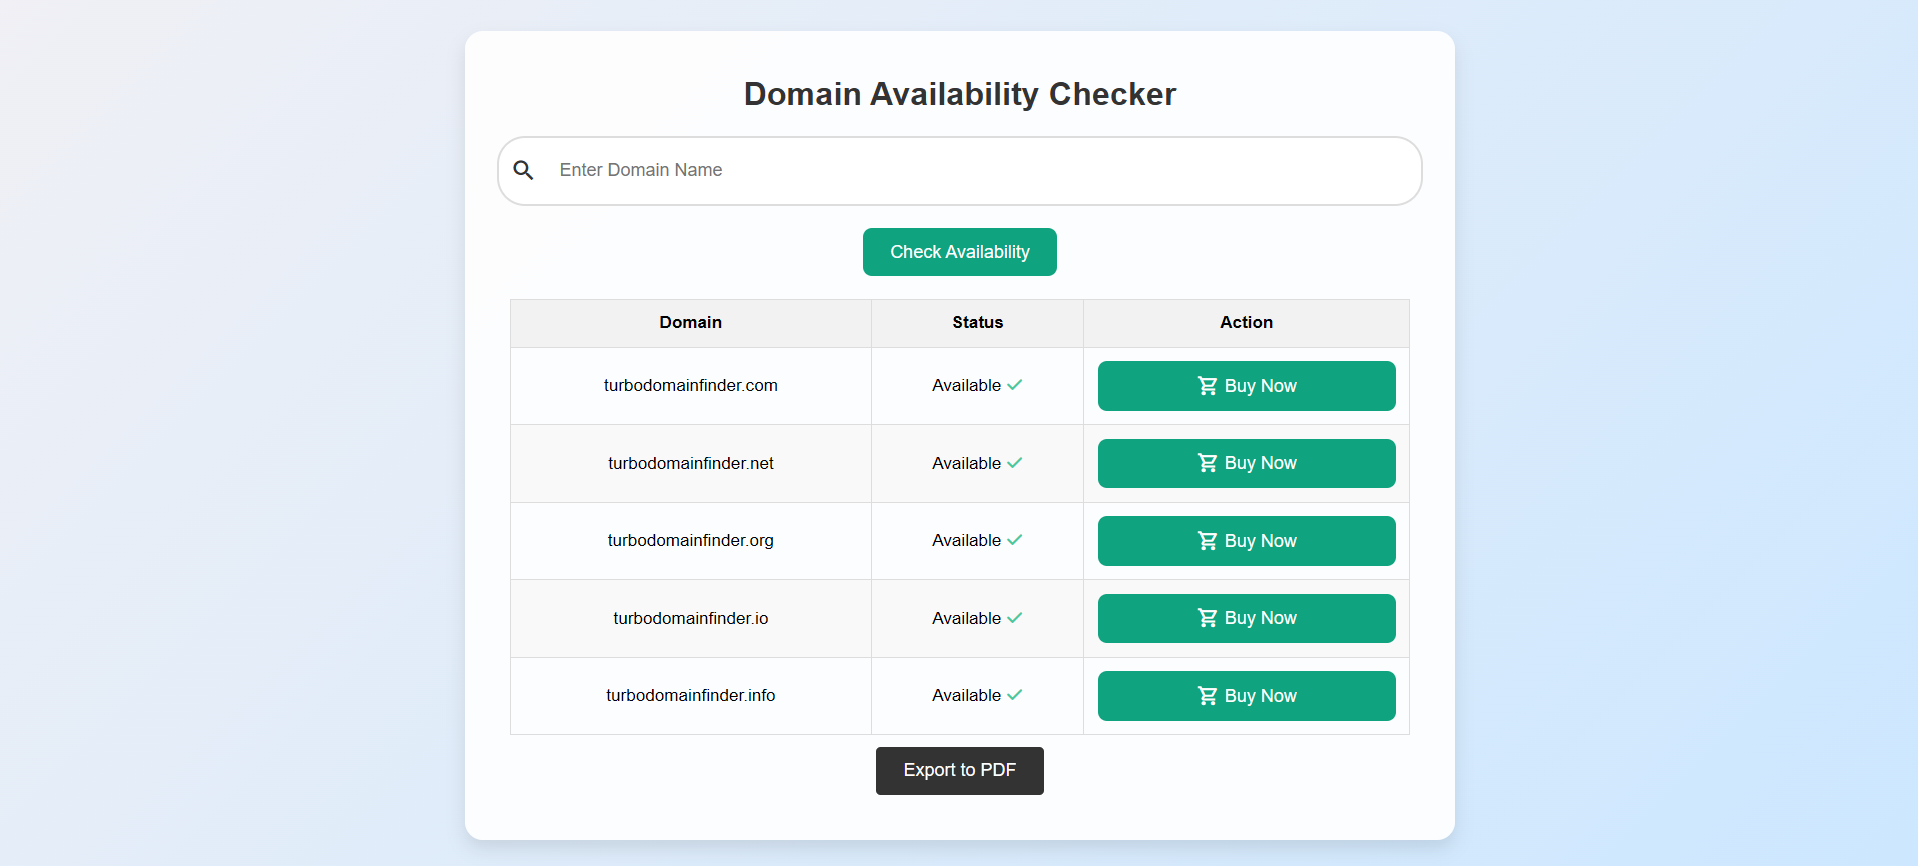
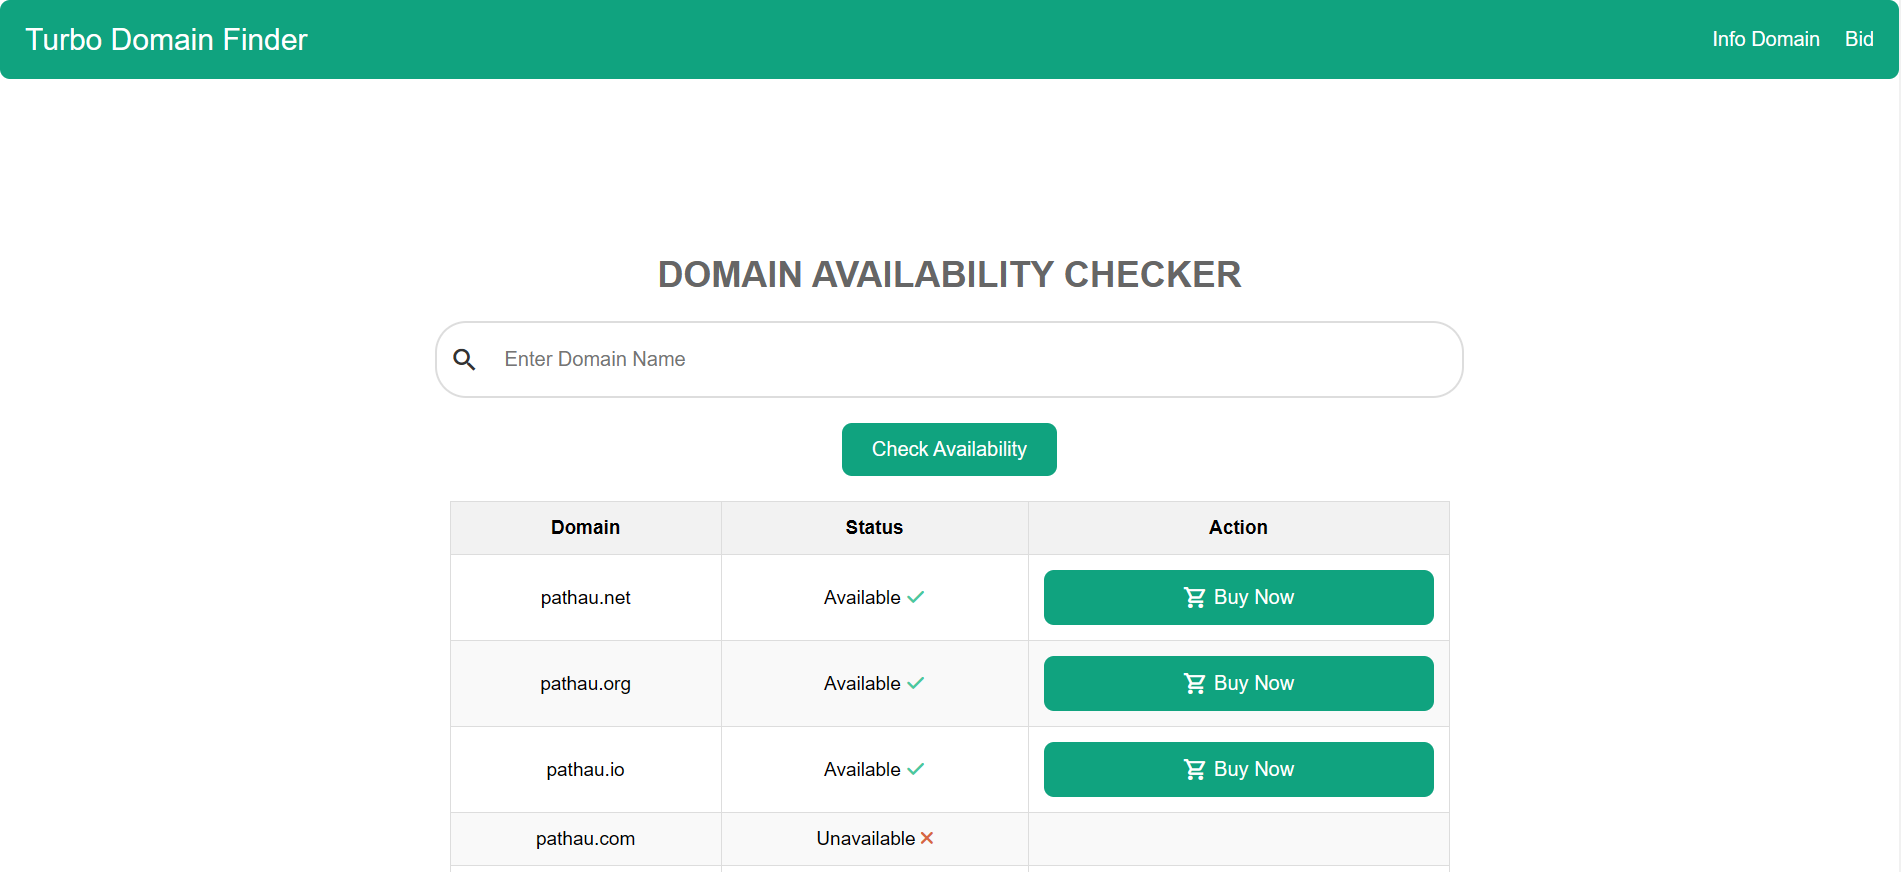
updated

diff --git a/README.md b/README.md
@@ -1,4 +1,7 @@
 ![Home Image](./show.png)
+![Home Image](./show2.png)
+![Home Image](./show3.png)
+
 # Turbo-Domain-Finder
 
 Turbo-Domain-Finder is a Flask-based application designed to help you find domain names quickly and efficiently. This repository contains the code and setup instructions for the project.
